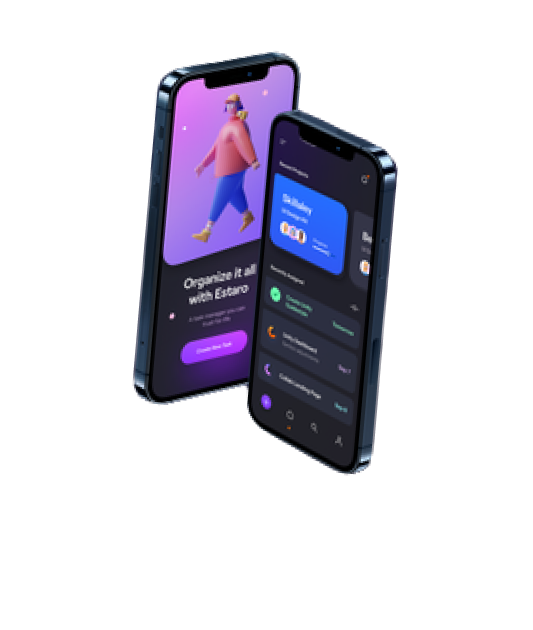
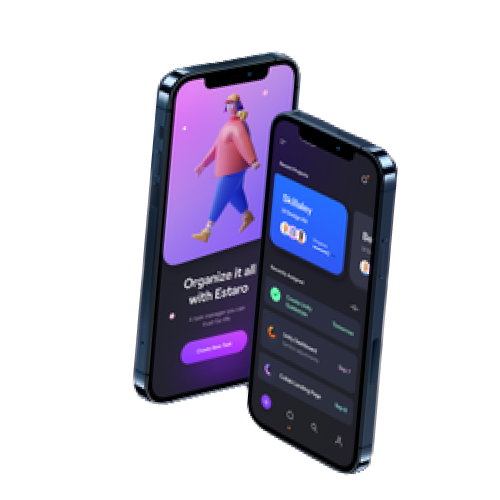
Style: Ajustes de reponsividade do portfólio.

Changed region(s): [[0.24, 0.06, 0.81, 0.96]]

diff --git a/src/pages/Home.jsx b/src/pages/Home.jsx
@@ -1,109 +1,122 @@
-import React from 'react';
+import React, { Fragment } from 'react';
 import Footer from '../components/Footer';
 import Header from '../components/Header';
 import { images, skills, social } from '../data';
-import { Container, Wrapper, Block, Title, Subtitle, Paragraph, Card, Image, NavSocial, ExternalLink } from '../styles';
+import { Container, Wrapper, Block, Title, Subtitle, Paragraph, Card, Image, NavSocial, ExternalLink, Section } from '../styles';
 import palette from '../styles/palette';
 
 function Home() {
   const year = new Date().getFullYear();
   return (
-    <>
+    <Fragment>
       <Header/>
       <Container>
           <Wrapper
-            background={palette.light.secondary}
-            color={palette.light.primary}
+            background={ palette.light.secondary }
+            color={ palette.light.primary }
           >
-            <Block>
-              <Title>
-                Olá,<br />
-                eu sou Bruno Minelli
-              </Title>
-              <Subtitle>Desenvolvedor Web</Subtitle>
-              <Paragraph>
-                Especialista em desenvolvimento <strong>frontend</strong>, <strong>backend</strong> e <strong>fullstack</strong>
+            <Section>
+              <Block>
+                <Title>
+                  Olá,<br />
+                  eu sou Bruno Minelli
+                </Title>
+                <Subtitle>Desenvolvedor Web</Subtitle>
+                <Paragraph>
+                  Especialista em desenvolvimento <strong>frontend</strong>, <strong>backend</strong> e <strong>fullstack</strong>
                 </Paragraph>
-            </Block>
-            <Block>
-              <Image src={ images.laptop.src } alt={ images.laptop.alt } />
-            </Block>
+              </Block>
+              <Block>
+                <Image src={ images.laptop.src } alt={ images.laptop.alt } />
+              </Block>
+            </Section>
           </Wrapper>
           <Wrapper
-            background={palette.light.secondary}
-            color={palette.light.primary}
+            background={ palette.light.secondary }
+            color={ palette.light.primary }
           >
-            <Card>
-              <Title>{year - 2014}</Title>
-              <Paragraph>Anos de Experiência</Paragraph>
-            </Card>
-            <Card>
-              <Title>23</Title>
-              <Paragraph>Projetos Concluídos</Paragraph>
-            </Card>
-            <Card>
-              <Title>27</Title>
-              <Paragraph>Repositórios GitHub</Paragraph>
-            </Card>
-            <Card>
-              <Title>5</Title>
-              <Paragraph>Projetos em Desenvolvimento</Paragraph>
-            </Card>
+            <Section>
+              <Card>
+                <Title>{ year - 2014 }</Title>
+                <Paragraph>Anos de Experiência</Paragraph>
+              </Card>
+              <Card>
+                <Title>23</Title>
+                <Paragraph>Projetos Concluídos</Paragraph>
+              </Card>
+              <Card>
+                <Title>27</Title>
+                <Paragraph>Repositórios GitHub</Paragraph>
+              </Card>
+              <Card>
+                <Title>5</Title>
+                <Paragraph>Projetos em Desenvolvimento</Paragraph>
+              </Card>
+            </Section>
           </Wrapper>
           <Wrapper
-            background={palette.light.primary}
-            color={palette.light.secondary}
+            background={ palette.light.primary }
+            color={ palette.light.secondary }
           >
-            <Block>
-              <Title>Sobre mim...</Title>
-              <Paragraph color={palette.light.secondary}>
-                Eu sou um apaixonado por jogos e por tecnologia com mais de oito anos de experiência no setor de tecnologia da informação aplicada à educação. Eu já corrigi um banco de dados em tempo real durante um evento de cursos de reciclagem para pessoas da área de medicina e gerenciei uma rede de mais de cem computadores no IFSP para pessoas estudantes.
-              </Paragraph>
-            </Block>
-            <Block>
-              <Image src={ images.cellphone.src } alt={ images.cellphone.alt } />
-            </Block>
+            <Section>
+              <Block>
+                <Title>Sobre mim...</Title>
+                <Paragraph color={ palette.light.secondary }>
+                  Eu sou um apaixonado por jogos e por tecnologia com mais de oito anos de experiência no setor de tecnologia da informação aplicada à educação. Eu já corrigi um banco de dados em tempo real durante um evento de cursos de reciclagem para pessoas da área de medicina e gerenciei uma rede de mais de cem computadores no IFSP para pessoas estudantes.
+                </Paragraph>
+              </Block>
+              <Block>
+                <Image src={ images.cellphone.src } alt={ images.cellphone.alt } />
+              </Block>
+            </Section>
           </Wrapper>
           <Wrapper
-            background={palette.light.secondary}
-            color={palette.light.primary}
+            background={ palette.light.secondary }
+            color={ palette.light.primary }
           >
-            <Block>
-            <Title>Competências</Title>
-              { skills.map((skill, index) => <Card key={ index }>{ skill }</Card>) }
-            </Block>
+            <Section>
+              <Block>
+                <Title>Competências</Title>
+                { skills.map((skill, index) =>
+                  <Card key={ index }>
+                    <Paragraph>{ skill }</Paragraph>
+                  </Card>) }
+              </Block>
+            </Section>
           </Wrapper>
           <Wrapper
-            background={palette.light.primary}
-            color={palette.light.secondary}
+            background={ palette.light.primary }
+            color={ palette.light.secondary }
           >
-            <Block>
-              <Title>Contato</Title>
-              <NavSocial>
-                <ExternalLink href={social.linkedin} target="_blank">
-                  <Image src={ images.linkedin.light.src } alt={ images.linkedin.light.alt } />
-                </ExternalLink>
-                <ExternalLink href={social.github} target="_blank">
-                  <Image src={ images.github.light.src } alt={ images.github.light.alt } />
-                </ExternalLink>
-                <ExternalLink href={social.email} target="_blank">
-                  <Image src={ images.email.light.src } alt={ images.email.light.alt } />
-                </ExternalLink>
-                <ExternalLink href={social.telegram} target="_blank">
-                  <Image src={ images.telegram.light.src } alt={ images.telegram.light.alt } />
-                </ExternalLink>
-              </NavSocial>
-            </Block>
-            <Block>
-              <Image src={ images.airplanes.src } alt={ images.airplanes.alt } />
-            </Block>
+            <Section>
+              <Block>
+                <Title>Contato</Title>
+                <NavSocial>
+                  <ExternalLink href={ social.linkedin } target="_blank">
+                    <Image src={ images.linkedin.light.src } alt={ images.linkedin.light.alt } />
+                  </ExternalLink>
+                  <ExternalLink href={social.github} target="_blank">
+                    <Image src={ images.github.light.src } alt={ images.github.light.alt } />
+                  </ExternalLink>
+                  <ExternalLink href={social.email} target="_blank">
+                    <Image src={ images.email.light.src } alt={ images.email.light.alt } />
+                  </ExternalLink>
+                  <ExternalLink href={ social.telegram } target="_blank">
+                    <Image src={ images.telegram.light.src } alt={ images.telegram.light.alt } />
+                  </ExternalLink>
+                </NavSocial>
+              </Block>
+              <Block>
+                <Image src={ images.airplanes.src } alt={ images.airplanes.alt } />
+              </Block>
+            </Section>
           </Wrapper>
       </Container>
       <Footer
-        background={palette.light.secondary}
-        color={palette.light.primary}
+        background={ palette.light.secondary }
+        color={ palette.light.primary }
       />
-    </>
+    </Fragment>
   );
 };
 

diff --git a/src/styles/index.js b/src/styles/index.js
@@ -11,9 +11,14 @@ const Head = styled.header `
   color: ${props => props.color};
   width: 100%;
 
-  @media screen and (min-width: 756px){
+  h1 {
+    margin: 0;
+  }
+  
+  @media screen and (min-width: 768px){
     flex-flow: row nowrap;
     justify-content: space-between;
+    padding: 2rem 4rem;
 
     h1 {
       margin: 0;
@@ -37,7 +42,7 @@ const NavLink = styled.nav `
     font-weight: 600;
   }
 
-  @media screen and (min-width: 756px){
+  @media screen and (min-width: 768px){
     width: fit-content;
 
     a {
@@ -51,6 +56,7 @@ const NavSocial = styled.nav `
   flex-flow: row wrap;
   align-items: center;
   justify-content: space-evenly;
+  width: 100%;
 `;
 
 const ExternalLink = styled.a `
@@ -80,13 +86,26 @@ const Wrapper = styled.article `
   padding: 1rem;
   width: 100%;
 
-  @media screen and (min-width: 756px){
+  @media screen and (min-width: 768px){
     flex-flow: row nowrap;
     padding: 2rem 4rem;
+  } 
+`;
+
+const Section = styled.section `
+  display: flex;
+  flex-flow: row wrap;
+  align-items: center;
+  justify-content: center;
+  width: 100%;
+
+  @media screen and (min-width: 1279px) {
+    flex-flow: row nowrap;
+    width: 85%;
   }
 `;
 
-const Block = styled.section `
+const Block = styled.div `
   display: flex;
   flex-flow: row wrap;
   align-items: center;
@@ -101,9 +120,9 @@ const Title = styled.h1 `
   margin-bottom: 0.5rem;
   width: 100%;
 
-  @media screen and (min-width: 756px){
+  @media screen and (min-width: 768px){
     text-align: left;
-    font-size: 3rem;
+    font-size: 2.75rem;
   }
 `;
 
@@ -113,7 +132,7 @@ const Subtitle = styled.h2 `
   text-align: center;
   width: 100%;
 
-  @media screen and (min-width: 756px){
+  @media screen and (min-width: 768px){
     text-align: left;
     font-size: 2.5rem;
   }
@@ -137,10 +156,14 @@ const Paragraph = styled.p `
     color: ${palette.light.accent};
   }
 
-  @media screen and (min-width: 756px){
-    font-size: 1.5rem;
+  @media screen and (min-width: 768px){
+    font-size: 1rem;
     text-align: left;
     width: 100%;
+  }
+
+  @media screen and (min-width: 1279px){
+    font-size: 1.5rem;
   }
 `;
 
@@ -153,7 +176,7 @@ const Card = styled.div `
   padding: 1rem;
   width: 50%;
 
-  @media screen and (min-width: 756px){
+  @media screen and (min-width: 768px){
     max-width: 25%;
 
     ${Title}, ${Paragraph} {
@@ -163,8 +186,8 @@ const Card = styled.div `
 `;
 
 const Image = styled.img `
-  width: 75%;
-  max-width: 25rem;
+  width: 60%;
+  max-width: 80%;
 `;
 
 const Foot = styled.footer `
@@ -177,7 +200,9 @@ const Foot = styled.footer `
   color: ${props => props.color};
   width: 100%;
 
-  @media screen and (min-width: 756px){
+  @media screen and (min-width: 768px){
+    padding: 2rem 4rem;
+
     ${Paragraph} {
       text-align: center;
     }
@@ -191,6 +216,7 @@ export {
   ExternalLink,
   Container,
   Wrapper,
+  Section,
   Block,
   Card,
   Title,

diff --git a/src/components/Header.jsx b/src/components/Header.jsx
@@ -6,11 +6,11 @@ import palette from '../styles/palette';
 function Header() {
   return (
     <Head
-      background={palette.light.secondary}
-      color={palette.light.primary}
+      background={ palette.light.secondary }
+      color={ palette.light.primary }
     >
-      <Title>{`</bruno minelli>`}</Title>
-      <NavLink color={palette.light.primary}>
+      <Title>{ `</bruno minelli>` }</Title>
+      <NavLink color={ palette.light.primary }>
         <Link to='/'>Home</Link>
         <Link to='/projects'>Projetos</Link>
         <Link to='/about'>Sobre</Link>

diff --git a/src/components/Footer.jsx b/src/components/Footer.jsx
@@ -5,8 +5,8 @@ import palette from '../styles/palette';
 function Footer() {
   return (
     <Foot
-      background={palette.light.secondary}
-      color={palette.light.primary}
+      background={ palette.light.secondary }
+      color={ palette.light.primary }
     >
       <Paragraph>Bruno Minelli&copy; | Desenvolvedor Web</Paragraph>
       <Paragraph>Todos os direitos reservados.</Paragraph>
